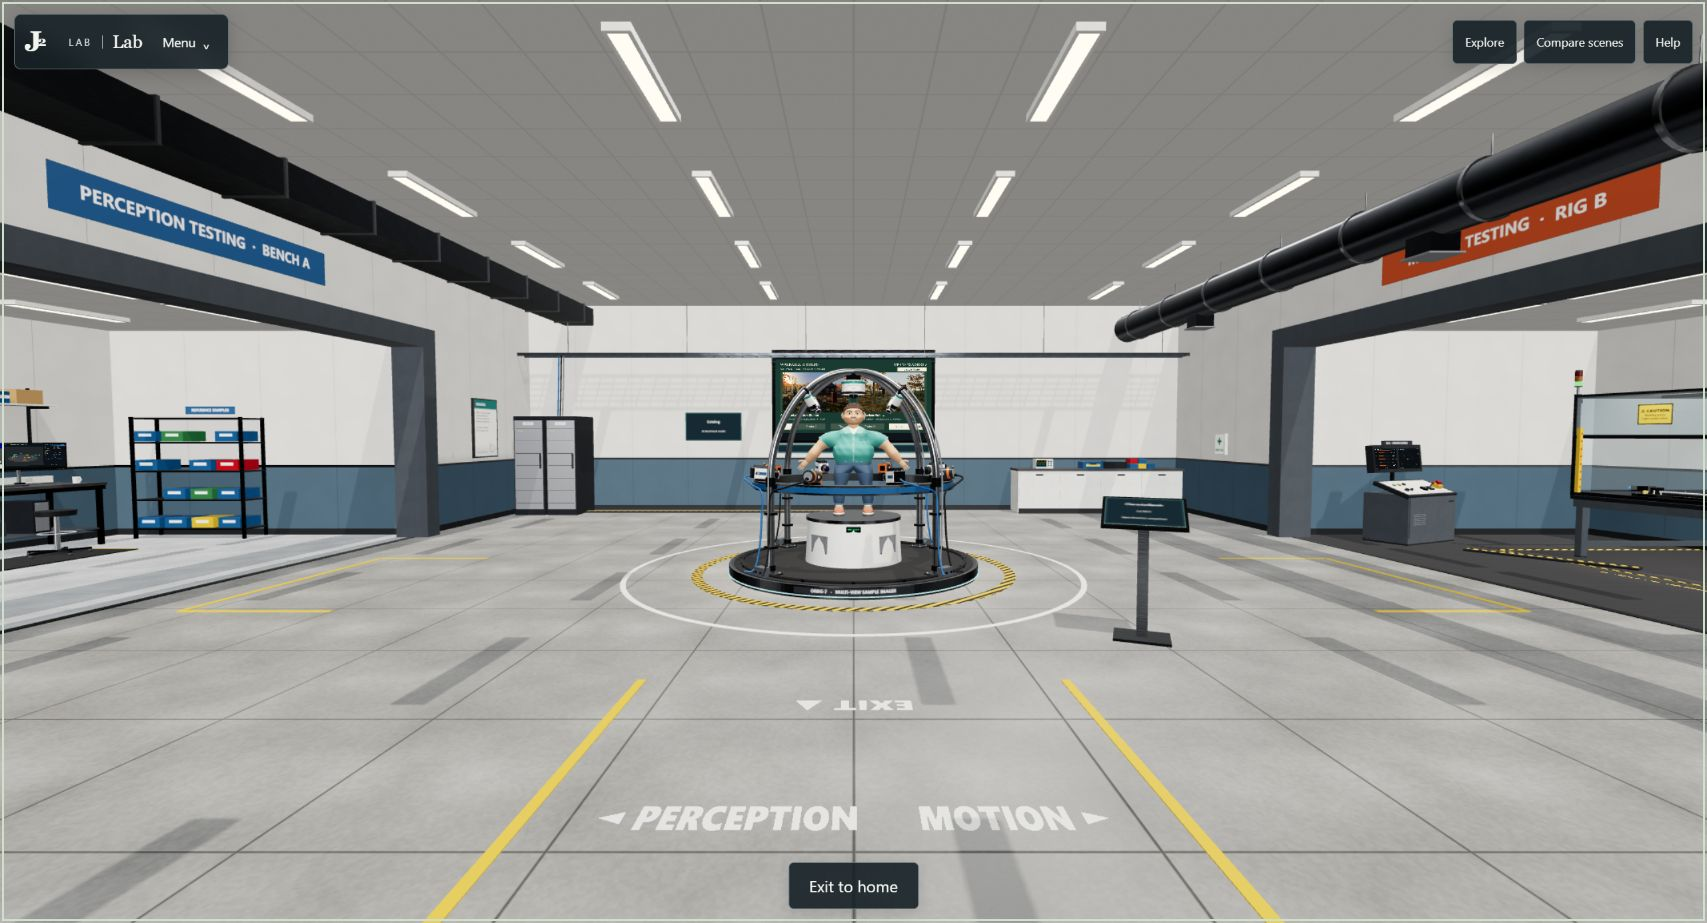
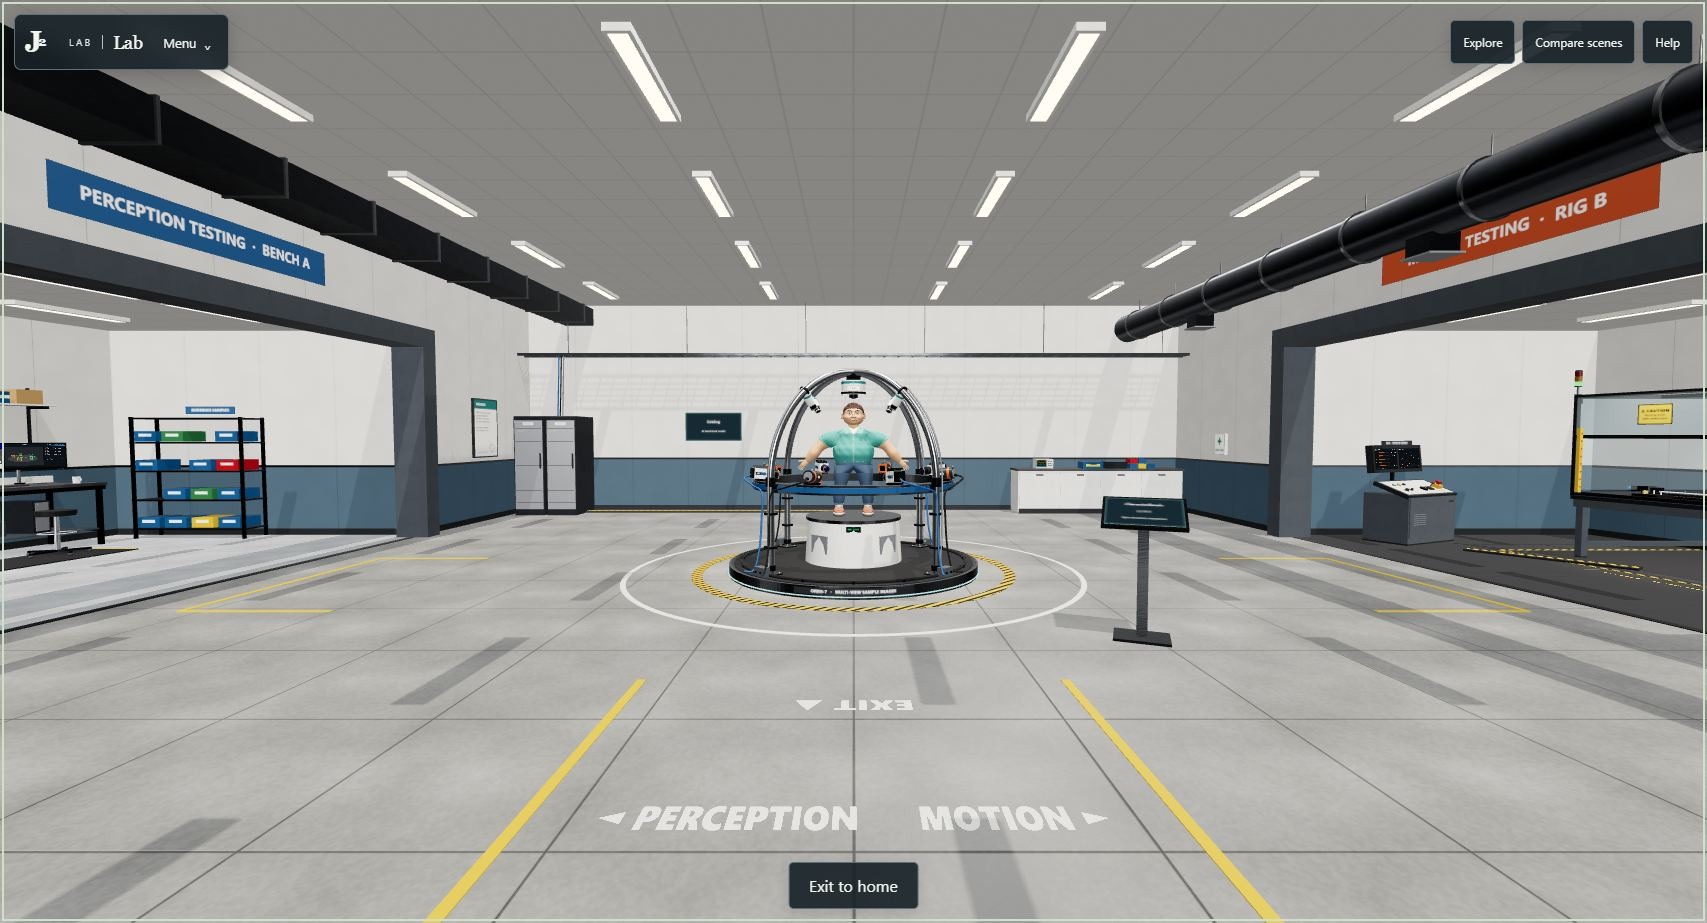
Match homepage Lab handoff to west-alcove entry v2

diff --git a/assets/js/room-handoff.js b/assets/js/room-handoff.js
@@ -6,14 +6,19 @@
     lab: '/lab/lab-space/',
     library: '/library/',
   };
+  const entryCameras = Object.freeze({
+    arcade: 'default-entry-v1',
+    lab: 'default-entry-v2',
+    library: 'default-entry-v1',
+  });
   let record;
   try {
     record = JSON.parse(window.sessionStorage.getItem(KEY));
     window.sessionStorage.removeItem(KEY);
   } catch { return; }
-  if (!record || record.version !== 1 || record.camera !== 'default-entry-v1') return;
+  if (!record || record.version !== 1) return;
   if (!Number.isFinite(record.createdAt) || record.createdAt > Date.now() || Date.now() - record.createdAt > 15000) return;
-  if (!Object.hasOwn(destinations, record.room) || record.path !== destinations[record.room] || window.location.pathname !== record.path) return;
+  if (!Object.hasOwn(destinations, record.room) || record.path !== destinations[record.room] || window.location.pathname !== record.path || record.camera !== entryCameras[record.room]) return;
   let image;
   try { image = new URL(record.image, window.location.href); } catch { return; }
   const allowedImage = '/assets/images/rooms/' + record.room + '-entry.jpg';

diff --git a/assets/js/homepage.js b/assets/js/homepage.js
@@ -2,6 +2,11 @@
   'use strict';
 
   const HANDOFF_KEY = 'pazneria.room-handoff.v1';
+  const entryCameras = Object.freeze({
+    arcade: 'default-entry-v1',
+    lab: 'default-entry-v2',
+    library: 'default-entry-v1',
+  });
   const reducedMotion = window.matchMedia('(prefers-reduced-motion: reduce)');
   const forcedColors = window.matchMedia('(forced-colors: active)');
   const root = document.documentElement;
@@ -82,7 +87,7 @@
   function writeHandoff(room, image, destination) {
     const record = {
       version: 1, room: room.dataset.room, path: destination.pathname,
-      image: image.currentSrc || image.src, camera: 'default-entry-v1',
+      image: image.currentSrc || image.src, camera: entryCameras[room.dataset.room],
       createdAt: Date.now(), viewport: { width: window.innerWidth, height: window.innerHeight },
     };
     try { window.sessionStorage.setItem(HANDOFF_KEY, JSON.stringify(record)); } catch { /* Optional bridge only. */ }

diff --git a/docs/room-handoff.md b/docs/room-handoff.md
@@ -1,7 +1,10 @@
 # Entry preview handoff v1
 
-The homepage uses real, unmodified screenshots of the published default entry
-views, captured on 2026-10-09 at 1707 × 923. They include the rooms' visible HUDs.
+The homepage uses real, unmodified default entry screenshots, captured on
+2026-10-09 at 1707 x 923. Arcade and Library retain their published v1 captures.
+The Lab v2 replacement is an owner-reviewed isolated draft capture from Lab
+commit `e821df05d19e82cb46ad5eabd7c8401cf040919b`; it is prepared, not yet published.
+All three include the rooms' visible host HUDs.
 No room engines run on the homepage. Portrait previews are a center crop and
 cannot promise pixel-identical alignment with responsive destination cameras.
 
@@ -63,6 +66,22 @@ the head, and exposes
 and forced colors stay on the existing destination path. Direct header links,
 new tabs and modified clicks do not create a record.
 
+Camera revisions are per room. Keep the numeric transport version `1`, key,
+15s lifetime, destination/image allowlists, recovery timer and fade unchanged:
+
+| Room | Accepted camera |
+| --- | --- |
+| Arcade | `default-entry-v1` |
+| Lab | `default-entry-v2` |
+| Library | `default-entry-v1` |
+
+The homepage producer and canonical consumer use the same `entryCameras` map.
+Lab must copy the updated canonical source exactly. The deployed Arcade and
+Library v1 consumers remain compatible and need no update. The Lab
+controller must also accept only `default-entry-v2`; it still uses `spawn()` and
+default comparison prompt=01 for that one incoming visit. A v1 Lab token falls
+back to normal destination entry. Arcade and Library v1 tokens remain valid.
+
 ## Ready boundary and camera
 
 The camera angles below are radians. All three use a vertical field of view of
@@ -95,7 +114,11 @@ Verified source commits and Git blob hashes:
 The three JPEGs and their SHA256 hashes, byte sizes, capture source URLs and
 dimensions are in `assets/images/rooms/entry-views.json` in the homepage repo.
 Destination owners use that homepage-origin image path; do not duplicate or
-regenerate the captures. They include the published room HUDs.
+regenerate the captures. The Lab entry records the local draft capture URL,
+source commit, prepared status, actual byte size and SHA256; `intended_url` is
+its future public destination. Its QA-only query did not change the renderer,
+pose or prompt. Do not describe that capture or the coordinated patch as live
+until publication is approved and the exact deployed assets are verified.
 
 - Arcade: `assets/arcade-app.js` currently restores inspection state or calls
   `startExplore()` before `loading.finish()`. A valid handoff should use the
@@ -147,3 +170,22 @@ Consume the record once; clear covers on pageshow/Back and release listeners on
 pagehide. Modified clicks and new tabs have no handoff token and stay native.
 Do not change permissions, credentials, site routing, quality budgets, controls,
 or any persistent preference as part of this bridge.
+
+## Coordinated Lab v2 draft
+
+The v2 pose remains x=0, eye=1.62, z=7.3, yaw=0, pitch=-.04, standing with
+zero velocity; vertical FOV=70, near=.04, far=80, Euler YXZ. Version v2 identifies
+the changed composition: Compare Worlds is now the lower screen in the west
+alcove, and the default prompt is 01. The capture is the unedited JPEG quality 78
+owner-reviewed default frame at 1707 x 923, Chrome 154, NVIDIA RTX 5070 Ti, DPR 1.
+
+Deploy the image, entry metadata, homepage producer, canonical bootstrap and
+matching Lab inline/controller together. The prepared canonical Git blob is
[1 lines of base64/hex data omitted]
+commit `30eb1ebc5d42a47759c20ca1fec4ce7b56aa07de`. Before coordinated publication,
+pin the approved homepage patch commit in the Lab inline source comment and its
+fingerprint test. The prepared Lab source comment identifies the baseline plus
+prepared patch instead of claiming the patched source exists at the baseline
+commit. Publish the matching Lab consumer first, then the homepage producer,
+image and manifest; the brief mixed-version interval uses normal Lab entry.
+Arcade and Library remain on their existing v1 integrations throughout.
